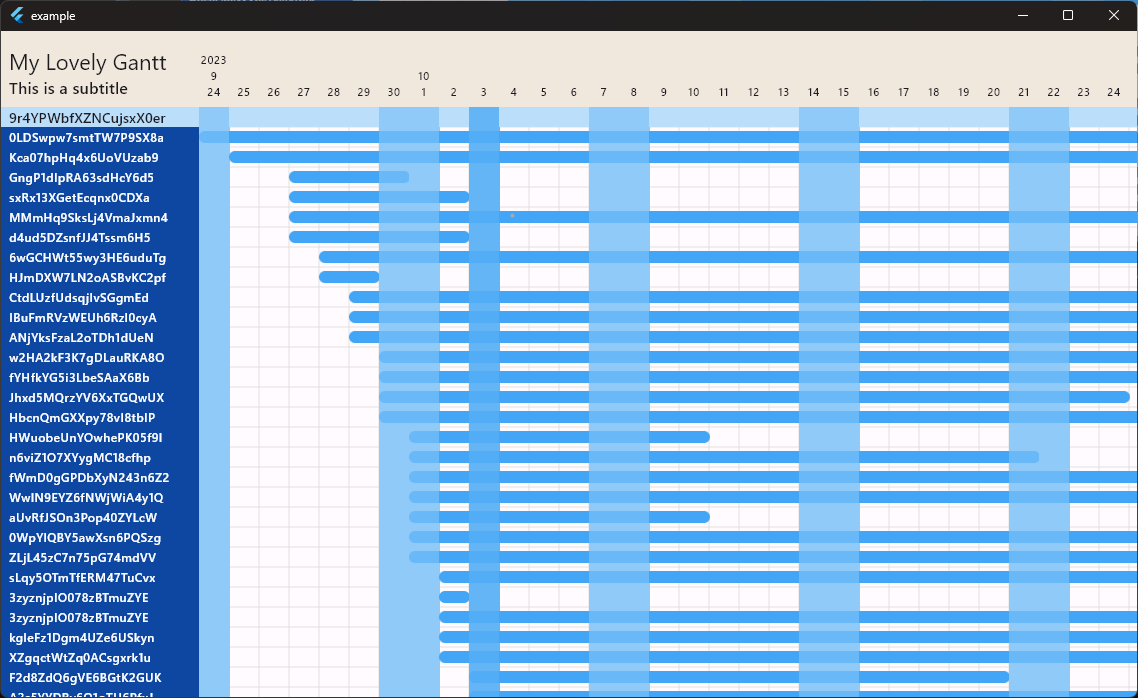
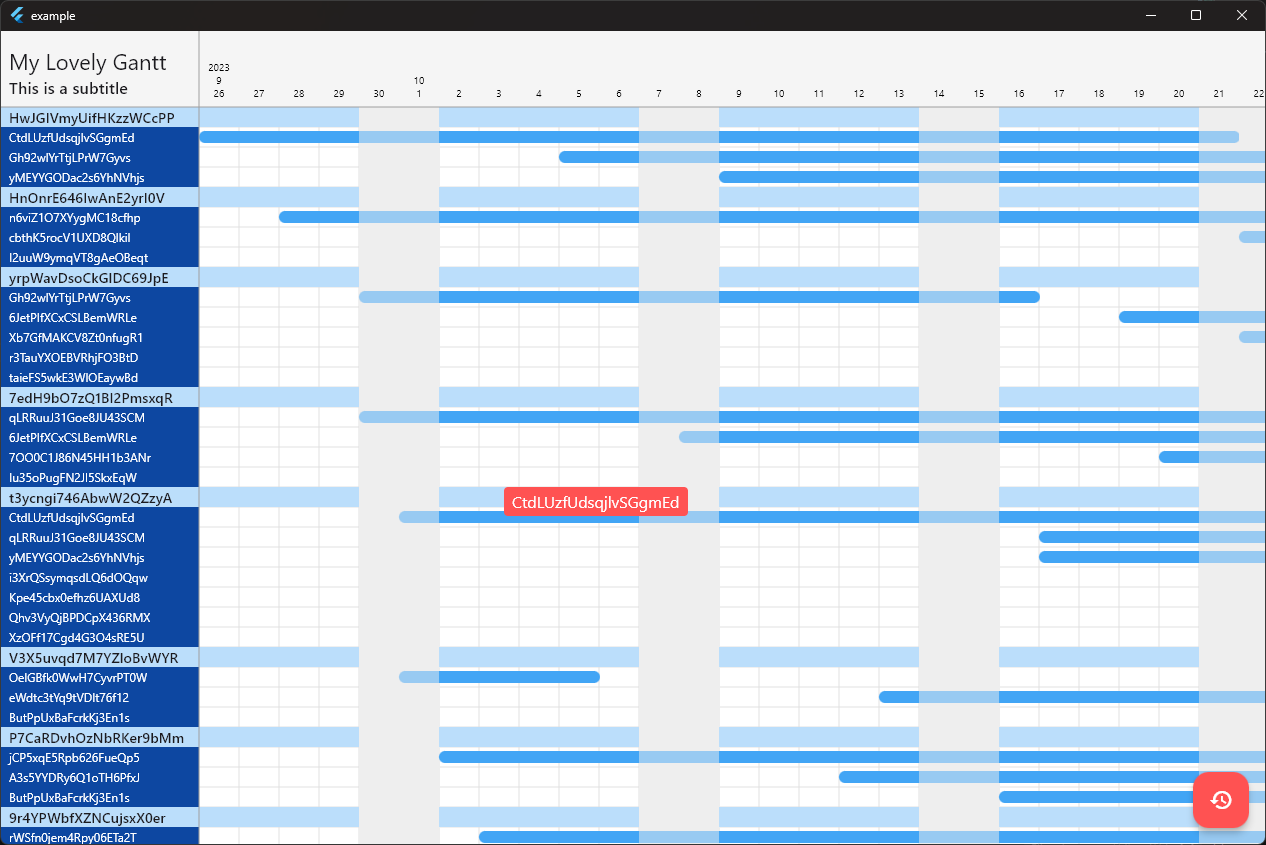
example update

diff --git a/example/lib/main.dart b/example/lib/main.dart
@@ -34,17 +34,18 @@ class MyHomePage extends StatefulWidget {
 }
 
 class _MyHomePageState extends State<MyHomePage> {
-  late GanttDataController<ExampleEventItem> _controller;
+  late GanttChartController<ExampleEventItem> _controller;
 
   @override
   void initState() {
     super.initState();
-    _controller = GanttDataController<ExampleEventItem>(
+    _controller = GanttChartController<ExampleEventItem>(
       items: Data.dummyData,
       taskBuilder: (item) => GanttTask(
         label: item.title,
         startDate: item.start,
         endDate: item.end,
+        tooltip: item.title,
       ),
       taskSort: (a, b) => a.startDate.compareTo(b.startDate),
       activityLabelBuilder: (item) => item.group,
@@ -67,24 +68,45 @@ class _MyHomePageState extends State<MyHomePage> {
   @override
   Widget build(BuildContext context) {
     return Scaffold(
+      backgroundColor: Colors.white,
       body: GanttChart(
         controller: _controller,
         title: 'My Lovely Gantt',
         subtitle: 'This is a subtitle',
         grid: const GanttGrid(
-          columnWidth: 30,
+          columnWidth: 40,
           rowSpacing: 0,
           timelineAxisType: TimelineAxisType.daily,
+          tooltipType: TooltipType.hover,
         ),
         style: GanttStyle(
-          taskBarColor: Colors.blue.shade200,
+          taskBarColor: Colors.blue.shade400,
+          activityLabelColor: Colors.blue.shade100,
           taskLabelColor: Colors.blue.shade900,
-          activityLabelColor: Colors.blue.shade400,
           gridColor: Colors.grey.shade300,
-          labelPadding: const EdgeInsets.all(4),
-          taskBarRadius: 10,
-          timelineColor: Colors.grey.shade300,
+          taskBarRadius: 6,
+          activityLabelStyle: Theme.of(context).textTheme.labelLarge,
+          titleStyle: Theme.of(context).textTheme.titleLarge,
+          titlePadding: const EdgeInsets.only(
+            left: 8,
+            right: 8,
+            top: 16,
+            bottom: 8,
+          ),
+          subtitleStyle: Theme.of(context).textTheme.titleMedium,
+          timelineColor: Colors.grey.shade100,
+          labelPadding: const EdgeInsets.symmetric(horizontal: 8, vertical: 4),
+          axisDividerColor: Colors.grey.shade500,
+          tooltipColor: Colors.redAccent,
+          tooltipPadding:
+              const EdgeInsets.symmetric(horizontal: 8.0, vertical: 4.0),
+              weekendColor: Colors.grey.shade200,
         ),
+      ),
+      floatingActionButton: FloatingActionButton(
+        backgroundColor: Colors.redAccent,
+        onPressed: () => _controller.setPanOffset(Offset.zero),
+        child: const Icon(Icons.restore, color: Colors.white),
       ),
     );
   }
